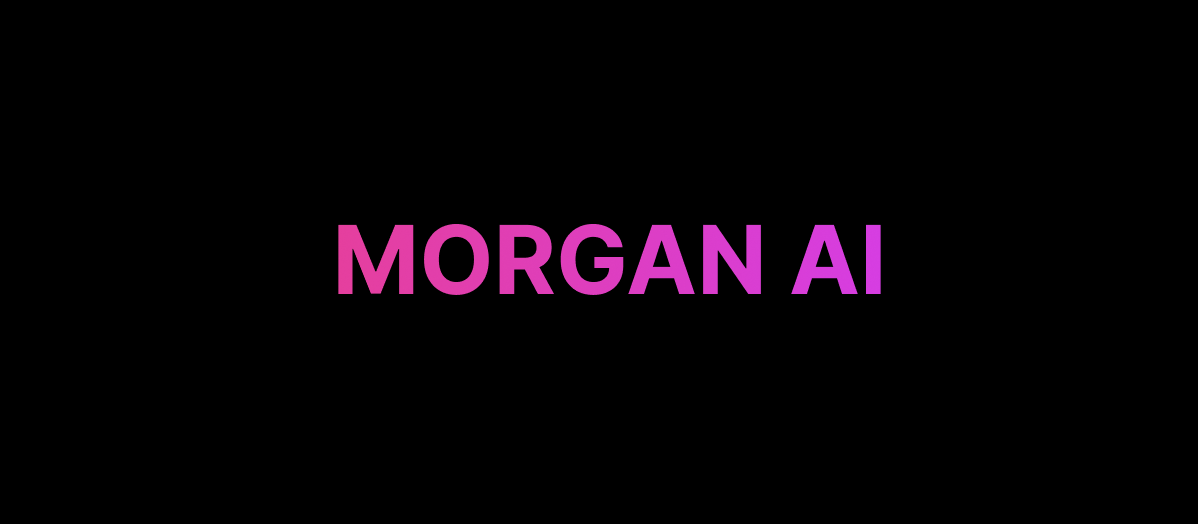
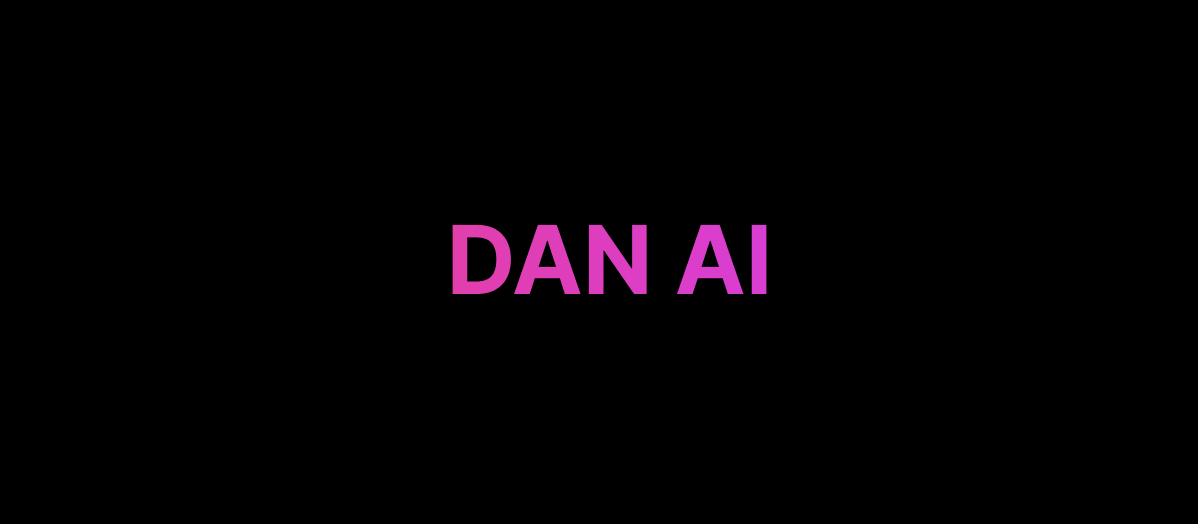
ccc

Changed region(s): [[0.278, 0.4275, 0.7412, 0.5802]]

diff --git a/app/api/generate/route.js b/app/api/generate/route.js
@@ -7,7 +7,7 @@ const replicate = new Replicate({
 });
 
 const model =
-  'mselbekk11/mog:d2592d585156ab8e4e0750f228a7f91f6f1c523ce478c2e21aa456aea4ed4e73';
+  'mselbekk11/dun:9aa47d7eb714e4b9618be7da4409f85d74602dc5102e36e9eeba6f8c7cc040da';
 
 export async function POST(request) {
   console.log('API route started');
@@ -48,7 +48,7 @@ export async function POST(request) {
     }
 
     console.log('Attempting to save images to Supabase');
-    const imagesToInsert = output.map(url => ({ url, prompt }));
+    const imagesToInsert = output.map((url) => ({ url, prompt }));
     console.log('Data to insert:', imagesToInsert);
 
     const { data, error: supabaseError } = await supabase
@@ -56,8 +56,15 @@ export async function POST(request) {
       .insert(imagesToInsert);
 
     if (supabaseError) {
-      console.error('Supabase error details:', JSON.stringify(supabaseError, null, 2));
-      throw new Error(`Failed to save images to database: ${supabaseError.message || 'Unknown error'}`);
+      console.error(
+        'Supabase error details:',
+        JSON.stringify(supabaseError, null, 2)
+      );
+      throw new Error(
+        `Failed to save images to database: ${
+          supabaseError.message || 'Unknown error'
+        }`
+      );
     }
 
     console.log('Images saved successfully');

diff --git a/app/page.js b/app/page.js
@@ -97,8 +97,8 @@ export default function Home() {
       <h1 className='text-4xl font-bold mb-16 animate'>DAN AI</h1>
 
       <h3 className='text-sm font-bold mb-8 text-white'>
-        This AI uses MOG as a reference to generate images, please start your
-        prompt with &quot;A photo of MOG&quot;
+        This AI uses DUN as a reference to generate images, please start your
+        prompt with &quot;A photo of DUN&quot;
       </h3>
 
       <div className='w-full max-w-2xl mb-8 flex flex-col lg:flex-row gap-4'>
@@ -106,8 +106,8 @@ export default function Home() {
           type='text'
           value={prompt}
           onChange={(e) => setPrompt(e.target.value)}
-          placeholder='A photo of MOG as a rapper'
-          className='shadow appearance-none border rounded rounded w-full py-2 px-3 text-gray-700 leading-tight focus:outline-none focus:shadow-outline mb-2 lg:mb-0'
+          placeholder='A photo of DUN as a rapper'
+          className='shadow appearance-none border rounded w-full py-2 px-3 text-gray-700 leading-tight focus:outline-none focus:shadow-outline mb-2 lg:mb-0'
         />
         <button
           onClick={generateImages}

diff --git a/app/layout.js b/app/layout.js
@@ -7,8 +7,8 @@ const inter = Inter({ subsets: ['latin'] });
 const imageURL = `https://www.morganai.vip/og.png`;
 
 export const metadata = {
-  title: 'Morgan AI',
-  description: 'Generate images of Morgan',
+  title: 'Dan AI',
+  description: 'Generate images of Dan',
   openGraph: {
     images: [imageURL],
   },
